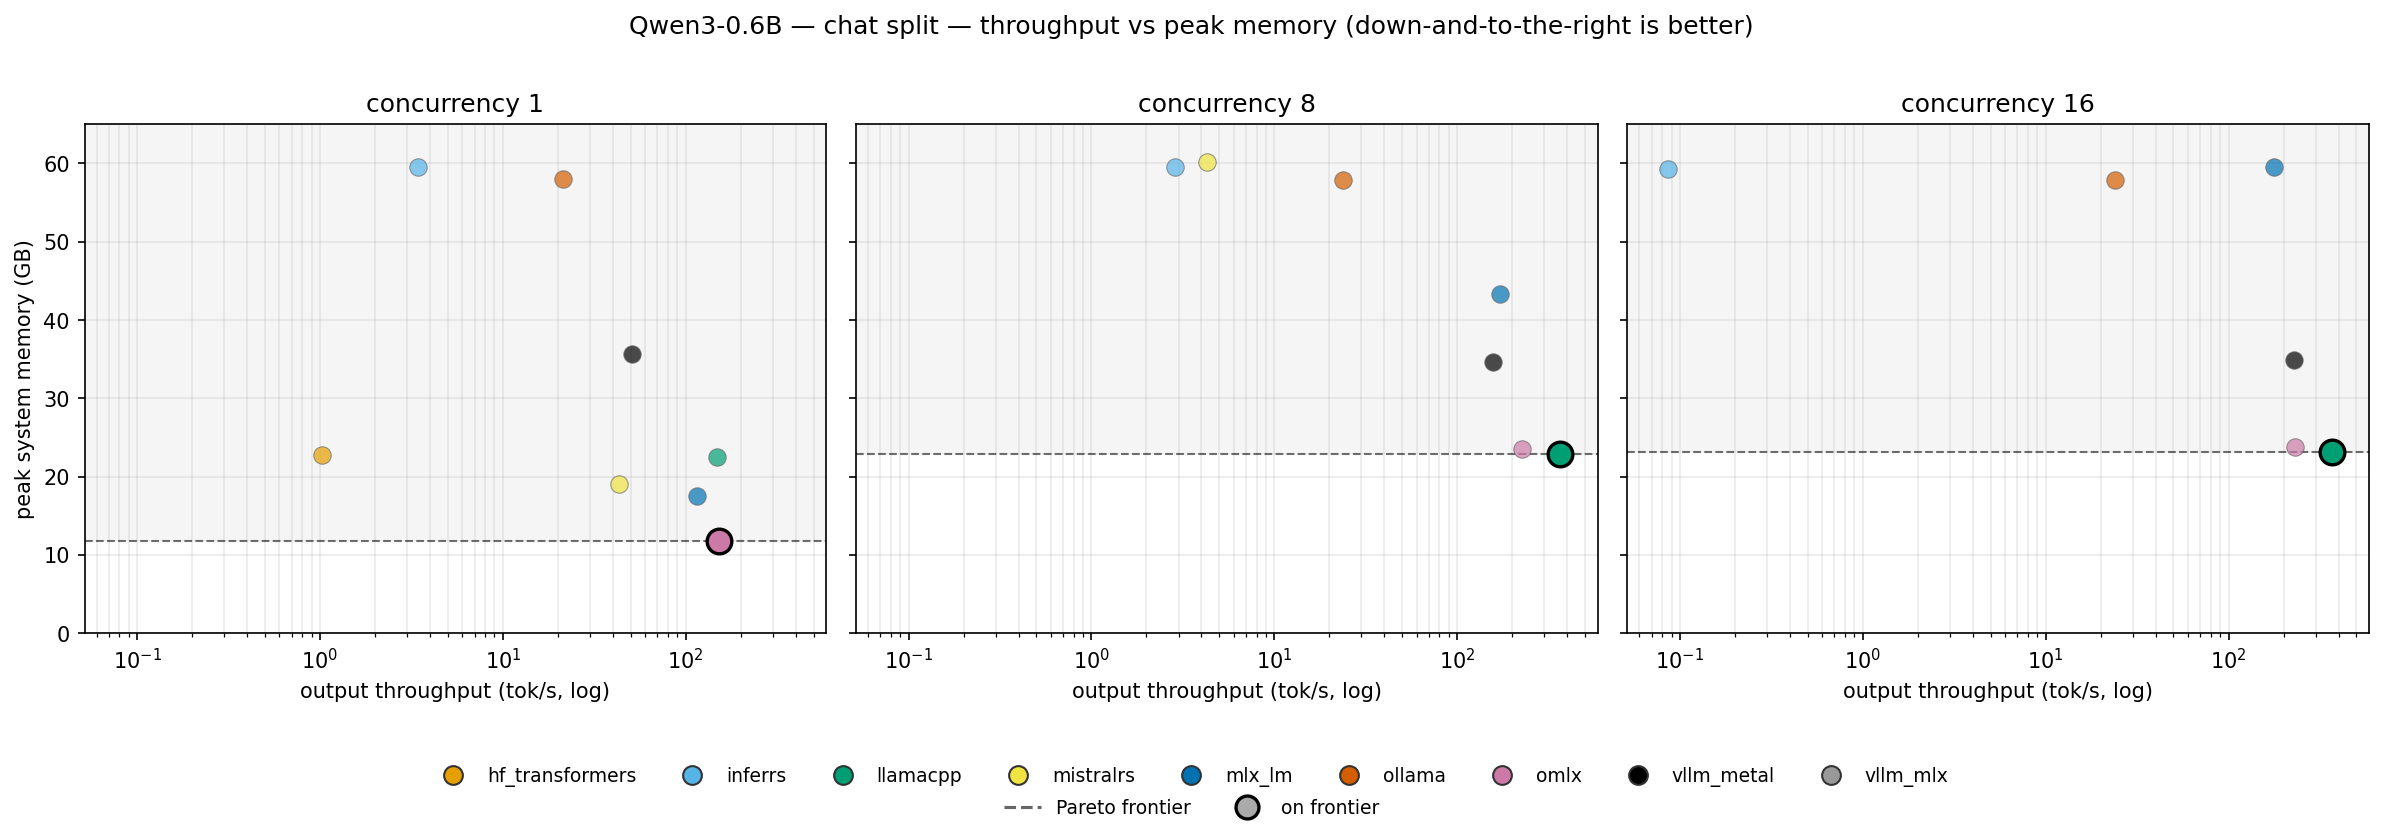
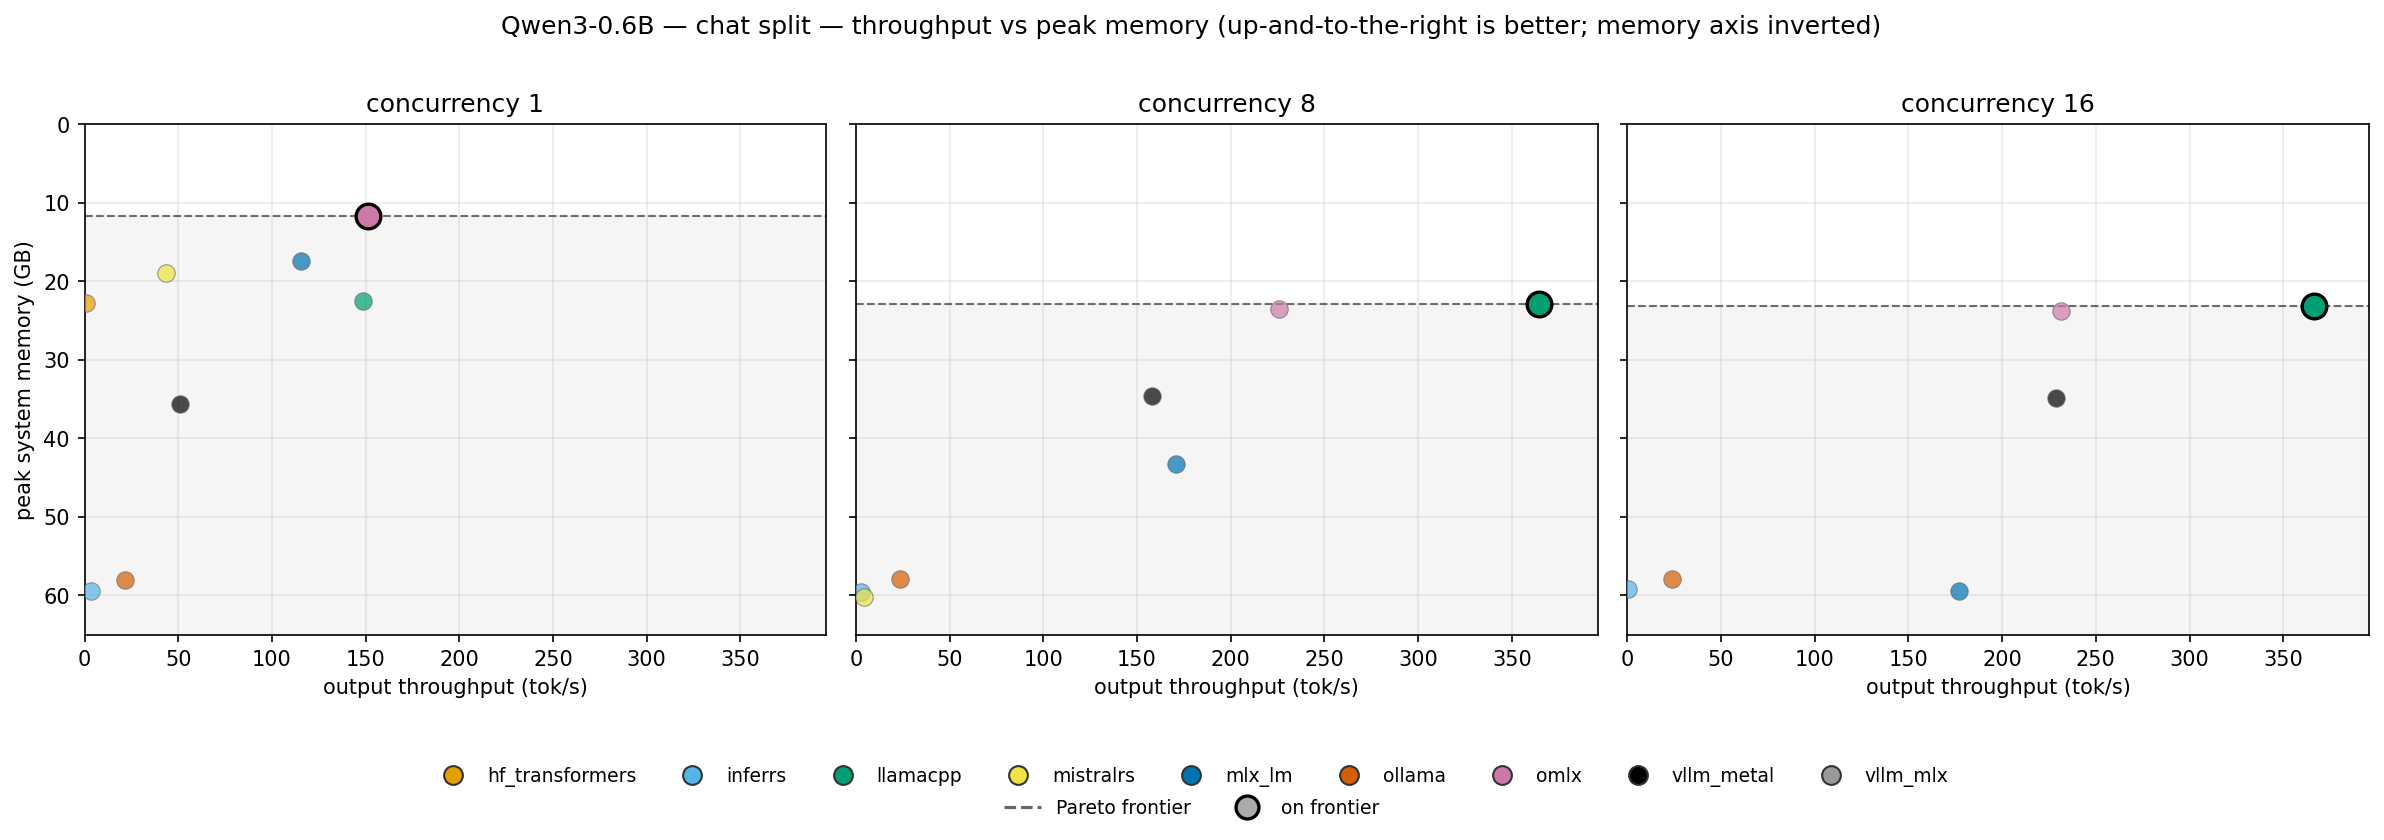
draw: linear throughput axis + inverted memory axis for Pareto plot
Two reader-driven changes:

1. Drop log x — linear now. 100 vs 400 tok/s reads as the 4x gap it
   actually is, matching the intuition a reader brings to a
   throughput comparison. Slow frameworks (inferrs, hf_transformers)
   compress toward the y-axis, which is correct: the speed-vs-memory
   tradeoff story lives among the fast frameworks, and the slow ones
   are simply bad on throughput regardless of memory.
2. Invert the memory y-axis (0 at top, 64 at bottom). "Less memory is
   better" now *looks* better — higher on the plot. Combined with
   "more throughput = further right," the single visual rule becomes
   "up-and-to-the-right is the good corner," matching Pareto intuition
   and removing the mental flip readers had to do with a bottom-is-
   better y-axis.

🤖 Generated with [Claude Code](https://claude.com/claude-code)

diff --git a/draw/plot_pareto.py b/draw/plot_pareto.py
@@ -120,11 +120,14 @@ def main() -> None:
     colors = {fw: CVD_COLORS[i % len(CVD_COLORS)] for i, fw in enumerate(all_fw)}
     markers = {fw: MARKERS[i % len(MARKERS)] for i, fw in enumerate(all_fw)}
 
-    # Shared axis bounds so panels are visually comparable.
+    # Shared axis bounds so panels are visually comparable. Linear x starts
+    # at 0 (slow frameworks compress toward the y-axis, which is fine — the
+    # interesting comparisons are among fast frameworks). Memory y-axis
+    # inverted below: less memory = higher on the plot.
     tput_vals = [v for ccs in tput.values() for v in ccs.values() if v > 0]
     mem_vals = [v for ccs in mem.values() for v in ccs.values()]
-    x_lo = min(tput_vals) * 0.6
-    x_hi = max(tput_vals) * 1.6
+    x_lo = 0
+    x_hi = max(tput_vals) * 1.08
     y_lo = 0
     y_hi = max(mem_vals) * 1.08 if mem_vals else 1
 
@@ -183,12 +186,14 @@ def main() -> None:
                 zorder=4 if on_front else 3,
             )
 
-        ax.set_xscale("log")
         ax.set_xlim(x_lo, x_hi)
-        ax.set_ylim(y_lo, y_hi)
+        # Invert the memory axis so "less memory" sits *higher* on the plot.
+        # Combined with "more throughput = further right," the read becomes
+        # "up-and-to-the-right is better," matching the Pareto intuition.
+        ax.set_ylim(y_hi, y_lo)
         ax.set_title(f"concurrency {c}")
-        ax.set_xlabel("output throughput (tok/s, log)")
-        ax.grid(True, which="both", alpha=0.25)
+        ax.set_xlabel("output throughput (tok/s)")
+        ax.grid(True, alpha=0.25)
 
     axes[0].set_ylabel("peak system memory (GB)")
 
@@ -220,7 +225,7 @@ def main() -> None:
     )
     fig.suptitle(
         f"{args.model} — {args.split} split — throughput vs peak memory "
-        "(down-and-to-the-right is better)"
+        "(up-and-to-the-right is better; memory axis inverted)"
     )
     fig.tight_layout(rect=(0, 0.09, 1, 0.97))
 
